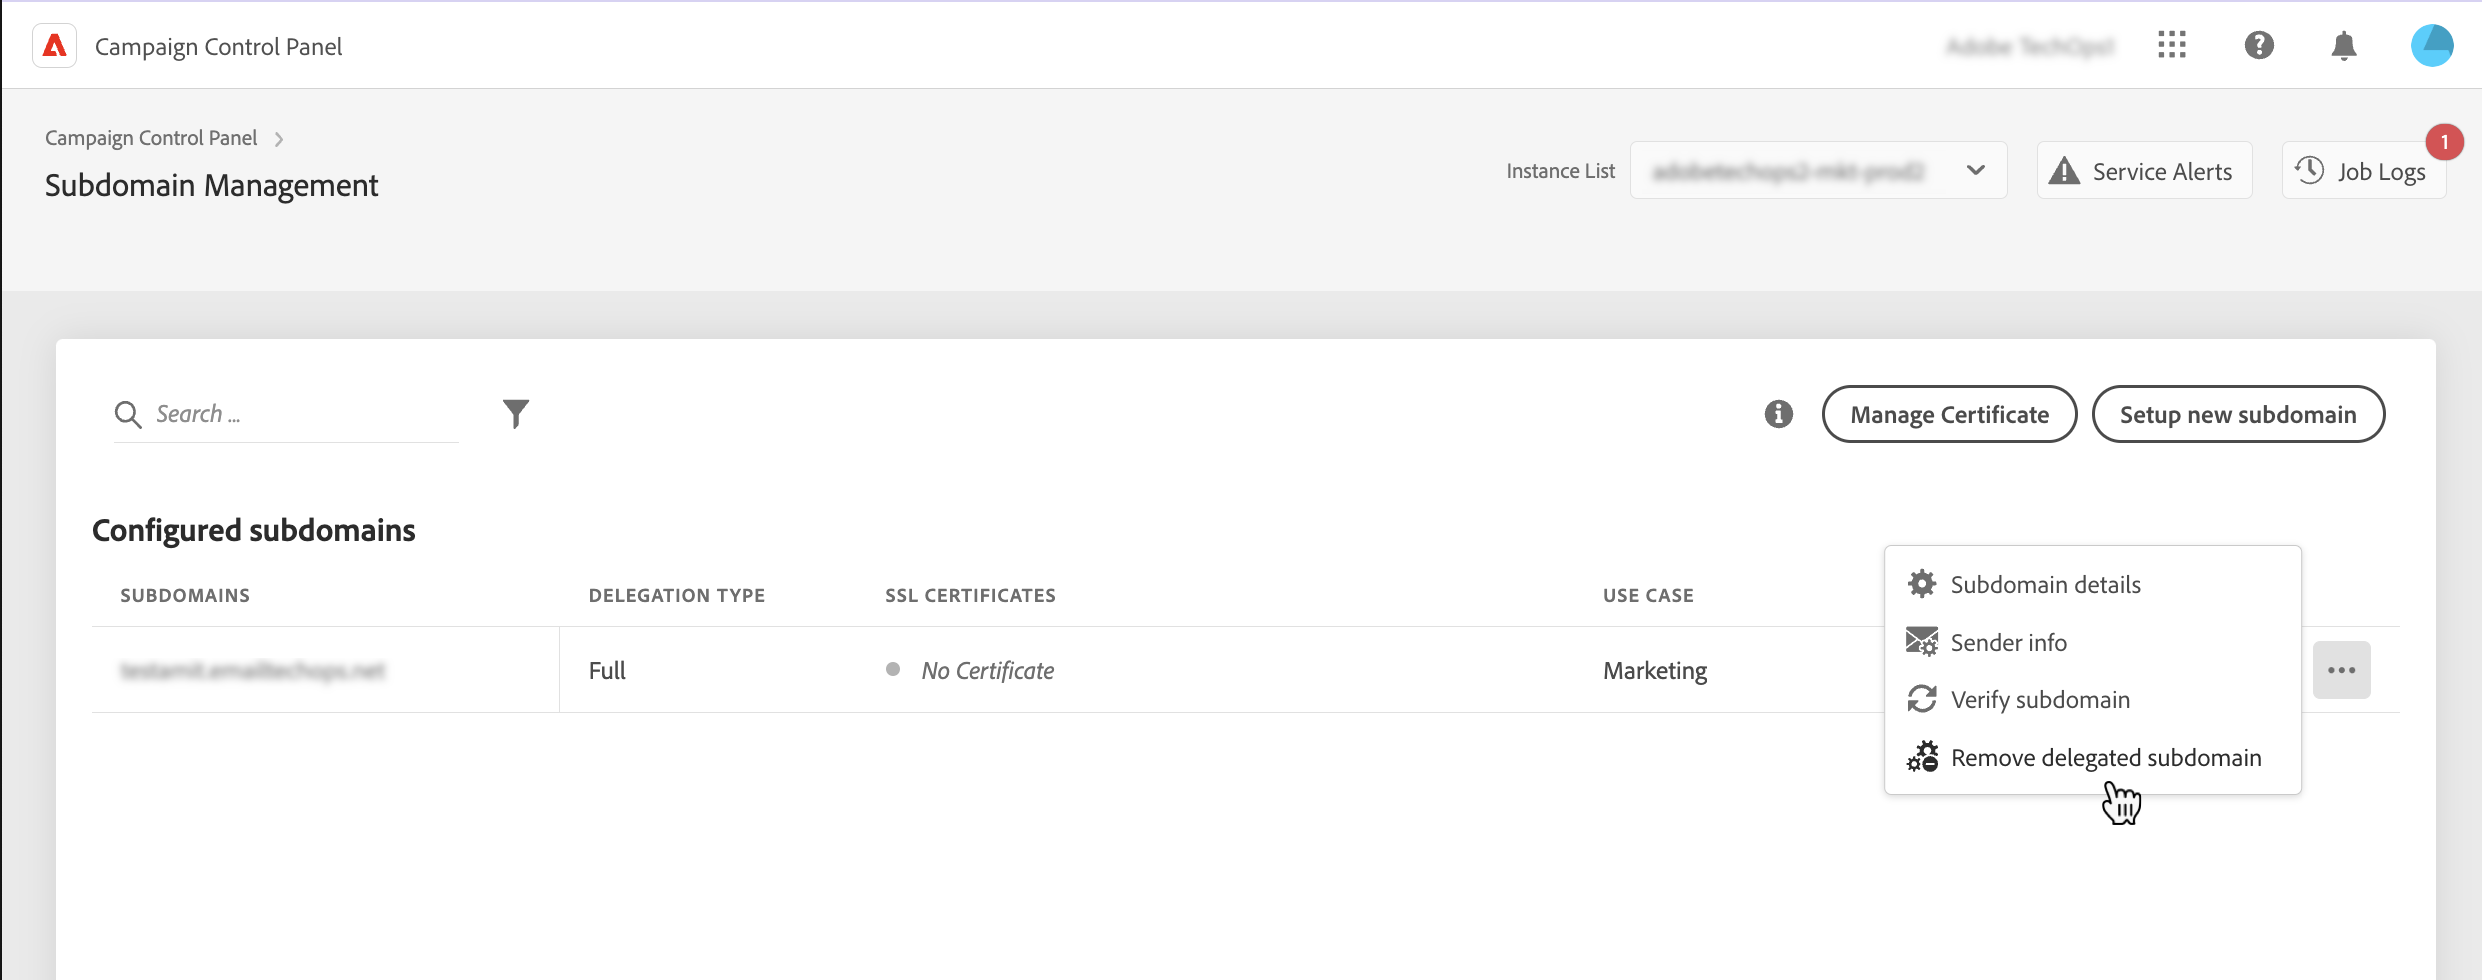
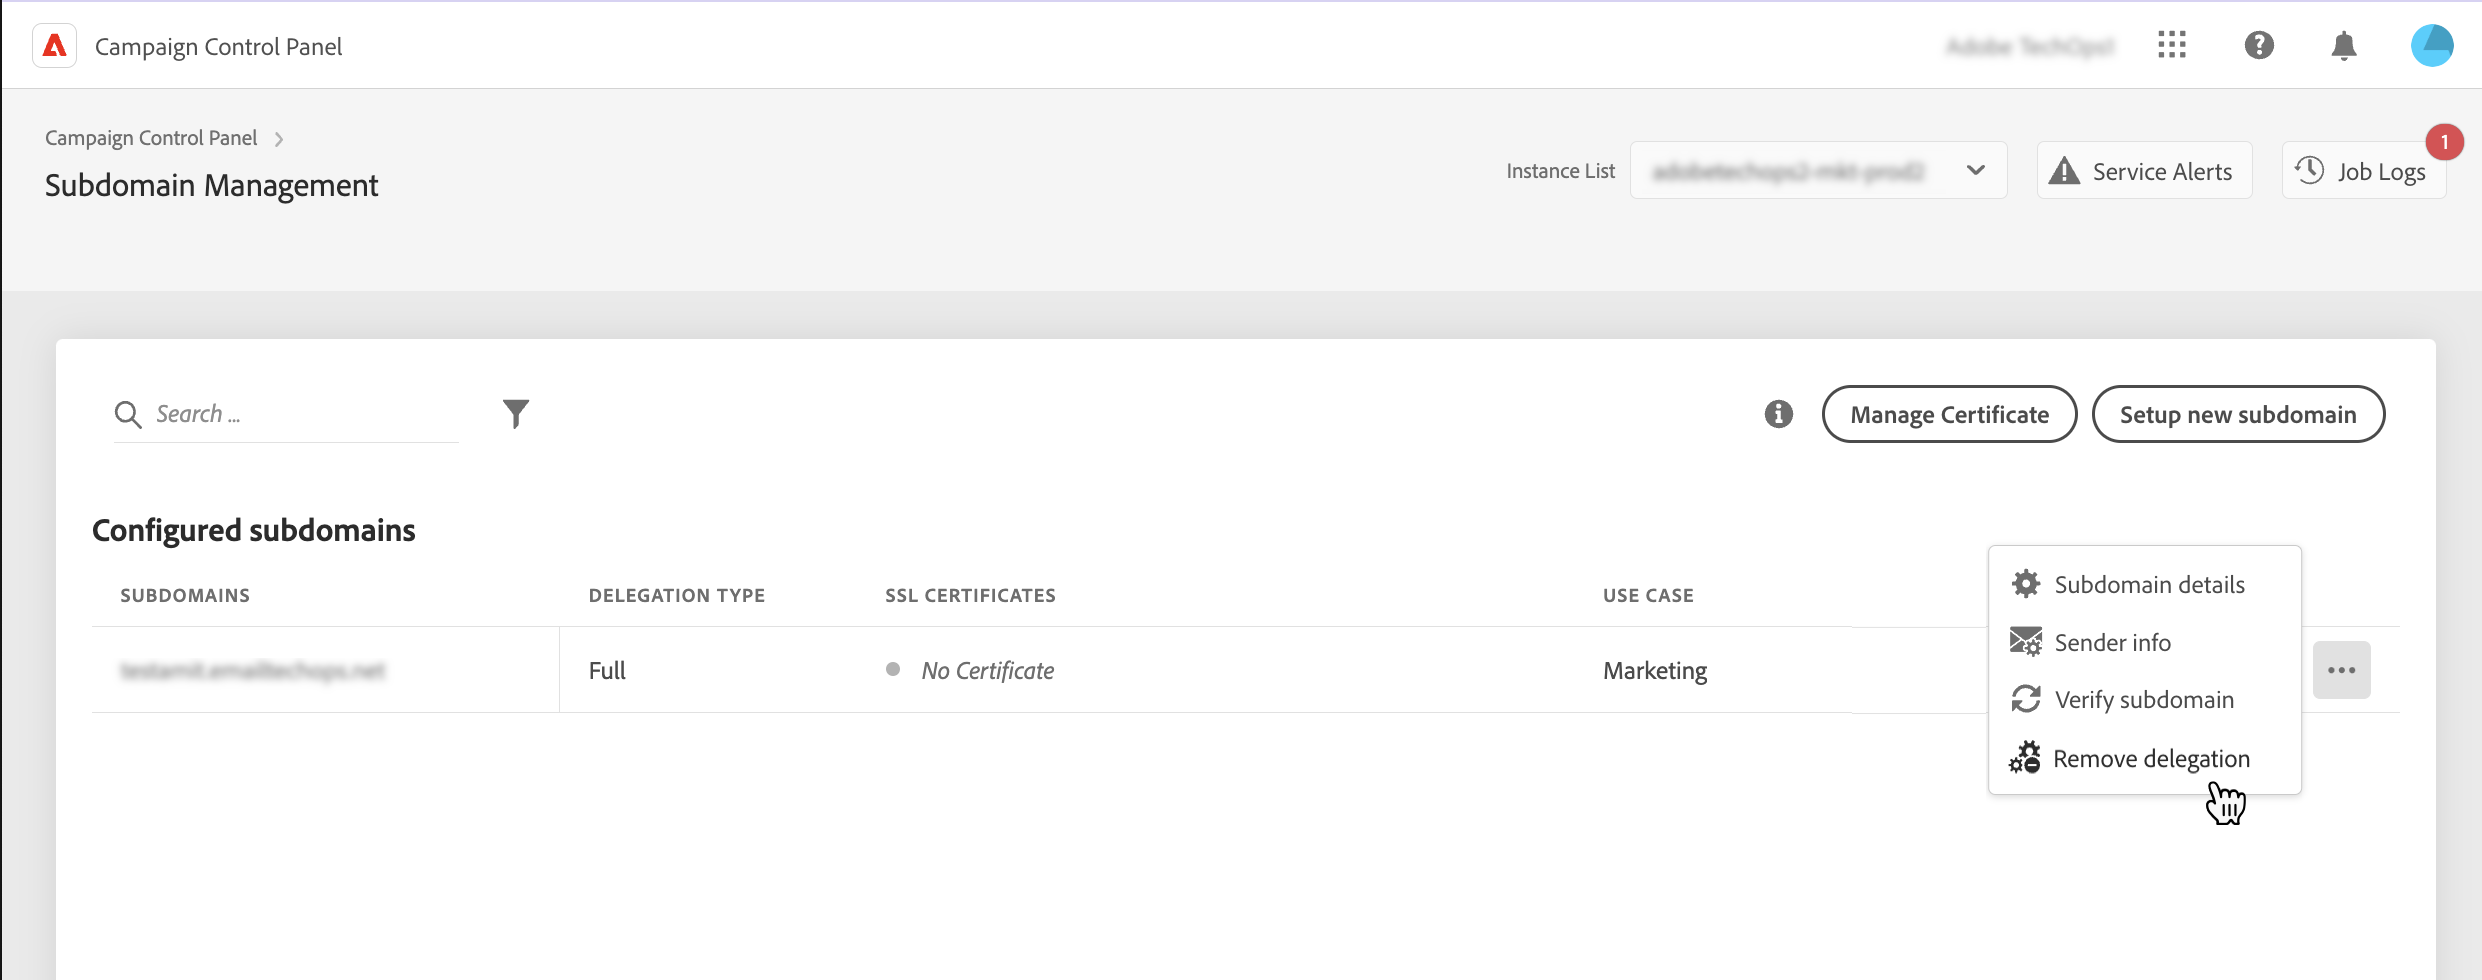
update

diff --git a/help/subdomains-certificates/using/remove-delegated-subdomains.md b/help/subdomains-certificates/using/remove-delegated-subdomains.md
@@ -11,14 +11,14 @@ level: Experienced
 
 >[!CONTEXTUALHELP]
 >id="cp_subdomain_undelegate"
->title="Subdomain delegation removal"
+>title="Remove subdomain delegation"
 >abstract="This screen allows you to remove the delegation of a subdomain to Adobe. Keep in mind that subdomain delegation removal cannot be undone and will be irreversible once submitted.<br><br>If you are trying to remove the delegation of a primary domain for the selected instance, you will be asked to choose the domain that will replace it."
 
 Control Panel allows you to remove the delegation of a subdomain that has been delegated to Adobe, including CNAME setup. Before proceeding, carefully consider the impacts occuring once the removal process is triggered:
 
-* Subdomain delegation removal cannot be undone and will be irreversible once started,
-* No other subdomain delegation can be removed when a similar process on another subdomain is in progress,
-* A delegation removed on a subdomain cannot be re-delegated until about ~2 hours of its removal..
+* Subdomain delegation removal cannot be undone and will be irreversible once started until the process execution is going on.
+* No other subdomain delegation can be removed when a similar process on another subdomain is in progress.
+* A delegation removed on a subdomain cannot be re-delegated until 3 days of its removal.
 
 To remove the delegation of a subdomain to Adobe, follow these steps:
 
@@ -39,3 +39,19 @@ To remove the delegation of a subdomain to Adobe, follow these steps:
 1. Review the summary that displays. To confirm the removal, type the URL of the domain for which you want to remove the delegation and click **[!UICONTROL Submit]**.
 
     ![](assets/undelegate-submit.png)
+
+After delegation removal has been started, the pending job displays in the job logs until it is completed.
+
+![](assets/undelegate-job.png)
+
+## Error codes {#FAQ}
+
+This section lists the error messages that you may encounter when trying to remove the delegation of a subdomain:
+
+|Error code|Message|Description|
+|  ---  |  ---  |  ---  |
+|8002|Requested Delegated Domain removal cannot be addressed as there is an similar overlapping request in progress, please try after 3 days|A subdomain delegation removal job is already under process for the selected instance. Wait until 3 days to start a new removal job.|
+|8003|Requested Delegated Domain removal is unsupported for this instance.|Delegation removal is not supported for the selected subdomain due to a technical issue, reach out to Customer Care.|
+|8004|Requested Delegated Domain removal is not allowed as there is only one domain in this instance.|Only one subdomain has been delegated for the selected instance. Delegation removal is not allowed.|
+|8005|Requested Delegated Domain removal is not supported for this configuration.|Delegation removal is not supported for the selected subdomain due to a technical issue, reach out to Customer Care.|
+|8006|Requested Delegated Domain removal is not allowed due to unknown reasons. Please contact customer care.|Delegation removal is not supported for the selected instance due to unknown issues, reach out to Customer Care.|
